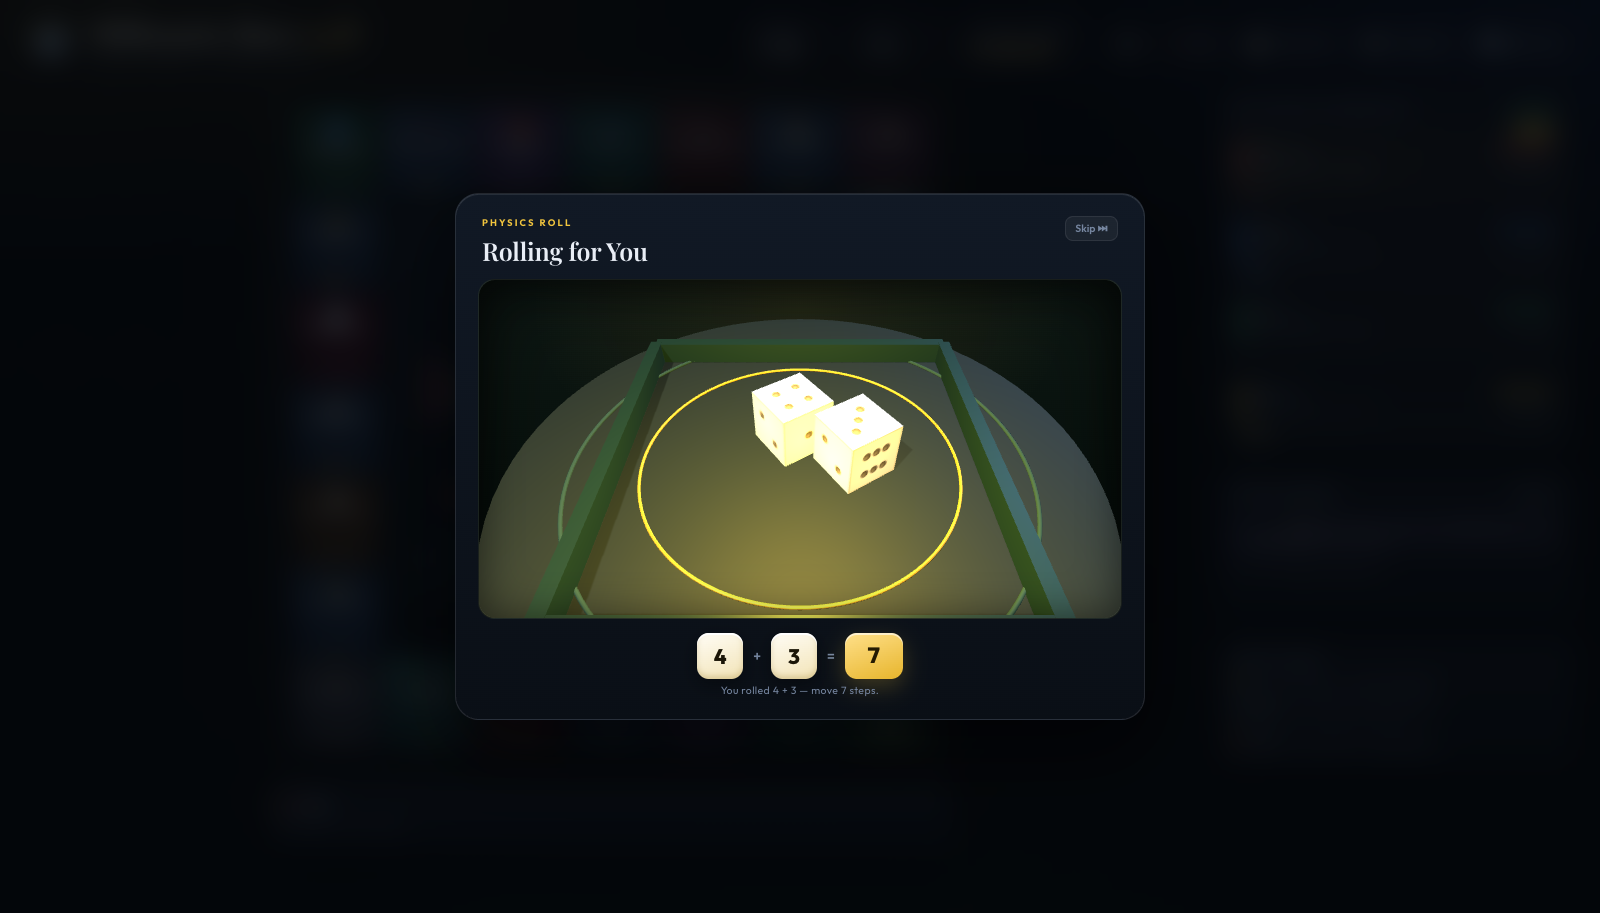
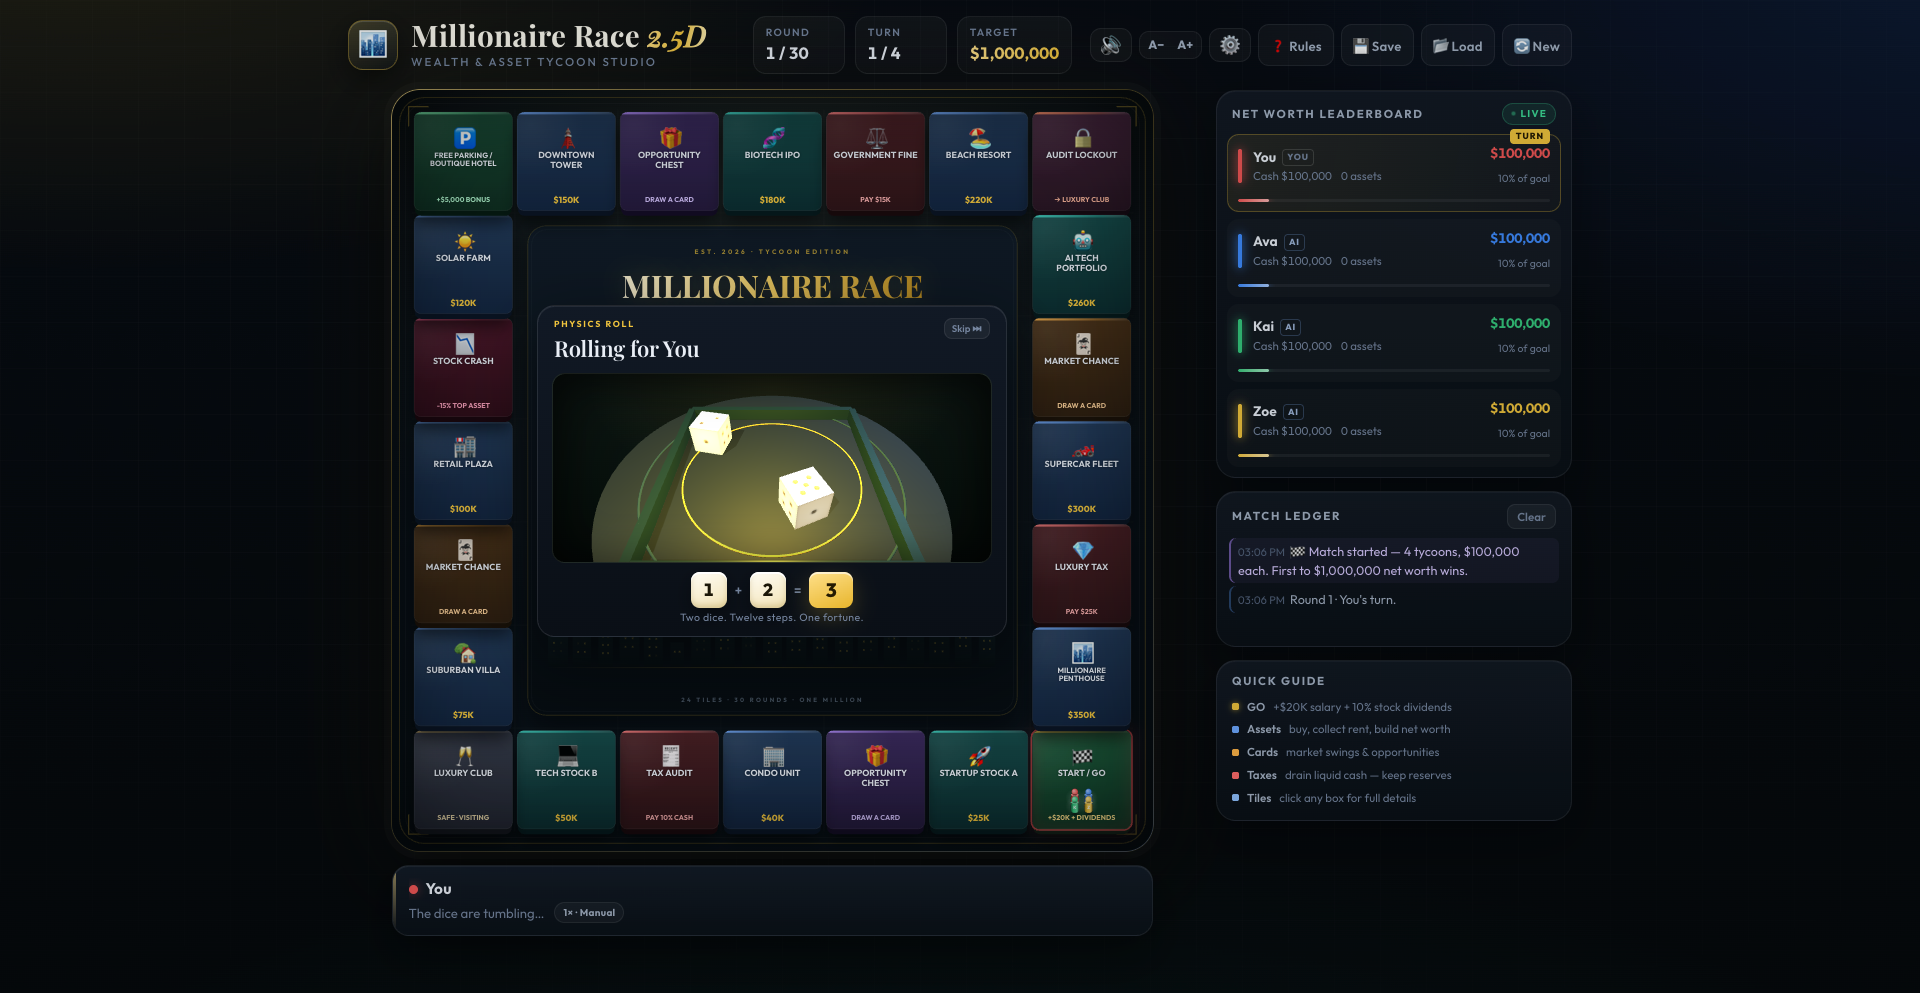
feat: compact floating dice tray keeps the board visible
- Shrink the dice panel from a full screen modal to a 320-470px tray
- Anchor it over the board centre on desktop; below the board on phones
- Replace the heavy blur/dim backdrop with a light 14% wash
- Scale the panel to the board width and resize it responsively
- Scale the 2D fallback dice to the smaller stage
- Update dice screenshot, README and build telemetry

diff --git a/script.js b/script.js
@@ -2754,6 +2754,40 @@ function hasWebGL() {
   return webglSupport;
 }
 
+function positionDiceModal() {
+  const overlay = document.getElementById('diceModal');
+  const modal = document.querySelector('#diceModal .dice-modal');
+  const frame = document.getElementById('boardFrame');
+  if (!overlay || !overlay.classList.contains('show') || !modal || !frame) return;
+  const rect = frame.getBoundingClientRect();
+  if (window.innerWidth <= 720) {
+    modal.style.width = '';
+  } else {
+    const panelWidth = Math.min(470, Math.max(320, rect.width * 0.64));
+    modal.style.width = `${Math.round(panelWidth)}px`;
+  }
+  const width = modal.offsetWidth || 470;
+  const height = modal.offsetHeight || 320;
+  const halfW = width / 2;
+  const halfH = height / 2;
+  const maxLeft = Math.max(halfW + 10, window.innerWidth - halfW - 10);
+  const maxTop = Math.max(halfH + 10, window.innerHeight - halfH - 10);
+  let left;
+  let top;
+  if (window.innerWidth <= 720) {
+    // On phones keep the board fully visible and drop the tray near the bottom.
+    left = window.innerWidth / 2;
+    top = window.innerHeight - halfH - 14;
+  } else {
+    left = rect.left + rect.width / 2;
+    top = rect.top + rect.height / 2;
+  }
+  left = clamp(left, halfW + 10, maxLeft);
+  top = clamp(top, halfH + 10, maxTop);
+  modal.style.setProperty('--dice-left', `${left}px`);
+  modal.style.setProperty('--dice-top', `${top}px`);
+}
+
 function openDiceModal(player) {
   return new Promise((resolve) => {
     ui.diceResolve = resolve;
@@ -2767,6 +2801,9 @@ function openDiceModal(player) {
     if (!stage) { resolve([randDie(), randDie()]); return; }
     stage.innerHTML = '<div class="dice-loading"><span class="spinner"></span><p>Loading 3D physics…</p></div>';
     openModal('diceModal');
+    positionDiceModal();
+    requestAnimationFrame(positionDiceModal);
+    setTimeout(positionDiceModal, 60);
 
     ui.diceTicker = setInterval(() => {
       if (!ui.diceResolve) return;
@@ -3234,11 +3271,12 @@ function runFallbackDice(stage, finish) {
 
     const settle = clamp((t - 1100) / 500, 0, 1);
     const ease = 1 - Math.pow(1 - settle, 3);
-    const spread = 78;
-    const midY = height / 2 + 6;
+    const dieSize = Math.min(92, Math.max(50, Math.round(height * 0.4)));
+    const spread = dieSize * 0.86;
+    const midY = height / 2 + 4;
     const wobble = Math.sin(t / 90) * 0.14 * (1 - ease);
-    drawFace(width / 2 - spread, midY, 92, shown[0], wobble);
-    drawFace(width / 2 + spread, midY, 92, shown[1], -wobble);
+    drawFace(width / 2 - spread, midY, dieSize, shown[0], wobble);
+    drawFace(width / 2 + spread, midY, dieSize, shown[1], -wobble);
 
     if (t < 1850) {
       raf = requestAnimationFrame(frame);
@@ -3562,6 +3600,7 @@ function bindEvents() {
 
   // Responsive canvas
   window.addEventListener('resize', debounce(resizeBoard, 120));
+  window.addEventListener('resize', debounce(positionDiceModal, 100));
   if ('ResizeObserver' in window) {
     try {
       new ResizeObserver(debounce(resizeBoard, 100)).observe($('#boardFrame'));

diff --git a/style.css b/style.css
@@ -954,6 +954,44 @@ button { touch-action: manipulation; }
 }
 .dice-caption { text-align: center; margin: 0 0 2px; font-size: 0.6562rem; color: var(--muted); letter-spacing: 0.4px; }
 
+/* Compact floating dice tray — keeps the board visible during the roll */
+#diceModal {
+  background: rgba(3, 5, 9, 0.14);
+  -webkit-backdrop-filter: none;
+  backdrop-filter: none;
+  padding: 0;
+  align-items: flex-start;
+  justify-content: flex-start;
+}
+#diceModal .dice-modal {
+  position: fixed;
+  left: var(--dice-left, 50vw);
+  top: var(--dice-top, 50vh);
+  width: min(470px, calc(100vw - 24px));
+  max-width: 470px;
+  padding: 12px 14px 10px;
+  border-radius: 18px;
+  opacity: 0;
+  transform: translate(-50%, -50%) scale(0.97);
+  transition: transform 0.24s cubic-bezier(0.2, 0.9, 0.3, 1.2), opacity 0.2s ease;
+  box-shadow: 0 24px 60px rgba(0, 0, 0, 0.55), inset 0 1px 0 rgba(255, 255, 255, 0.08);
+}
+#diceModal.show .dice-modal {
+  opacity: 1;
+  transform: translate(-50%, -50%) scale(1);
+}
+#diceModal .dice-head { padding: 0 2px 8px; }
+#diceModal .dice-head h2 { font-size: 1.25rem; }
+#diceModal .dice-head .eyebrow { font-size: 0.5rem; letter-spacing: 1.7px; }
+#diceModal .dice-head .mini-btn { font-size: 0.55rem; padding: 3px 7px; }
+#diceModal .dice-stage { height: 190px; border-radius: 13px; }
+#diceModal .dice-readout { padding: 9px 0 2px; gap: 8px; }
+#diceModal .die-chip { min-width: 36px; height: 36px; font-size: 1rem; border-radius: 9px; }
+#diceModal .die-total { min-width: 44px; height: 36px; font-size: 1.1rem; border-radius: 9px; }
+#diceModal .dice-readout .plus,
+#diceModal .dice-readout .equals { font-size: 0.75rem; }
+#diceModal .dice-caption { font-size: 0.6rem; margin-bottom: 0; }
+
 /* Card modal */
 .card-modal { max-width: 465px; text-align: center; padding: 30px 30px 26px; overflow: hidden; border-color: rgba(176, 136, 255, 0.24); }
 .card-glow {
@@ -1443,6 +1481,9 @@ html[data-font="140"] .ghost-btn::first-letter {
   .lobby-footer-actions { margin-left: 0; width: 100%; justify-content: space-between; }
   .lobby-note { display: none; }
   .dice-modal, .rules-modal { padding: 16px; }
+  #diceModal .dice-modal { width: min(360px, calc(100vw - 20px)); padding: 10px 11px 8px; }
+  #diceModal .dice-stage { height: 150px; }
+  #diceModal .dice-head h2 { font-size: 1.1rem; }
   .card-modal { padding: 24px 20px 20px; }
   .win-modal { padding: 26px 20px 22px; }
   .toast-stack { right: 12px; bottom: 12px; }

diff --git a/BUILD_STATE.md b/BUILD_STATE.md
@@ -27,6 +27,7 @@ This file records the build telemetry for the project: wall-clock time, token co
 | Started | **2026-11-01 10:22:40 PST** (`2026-11-01T10:22:40-08:00`) |
 | First delivery | **2026-11-01 11:11:06 PST** — 48 min 25 sec |
 | Feature-update snapshot | **2026-11-01 12:00:59 PST** — **98 min 18 sec cumulative** |
+| Latest dice-tray tweak | **2026-11-01 15:04 PST** — compact floating tray (session resumed after a break) |
 | Delivered | Complete playable game, three core source files, six screenshots, docs, license and build telemetry |
 
 ### Approximate build log
@@ -43,6 +44,7 @@ This file records the build telemetry for the project: wall-clock time, token co
 | 11:06 | Final screenshots, README, license, build telemetry |
 | 11:11 | GitHub publication and Pages deployment |
 | 11:13–12:00 | v1.1: speed control, manual review/Continue, clickable tile inspector, text-size scaling, new settings modal, screenshots and re-publication |
+| 14:57–15:04 | Compact floating dice tray: 470 px panel over the board centre, 14% backdrop, mobile below-board placement and smaller 2D fallback dice |
 
 > Times are derived from the session record, screenshots and the telemetry capture point. The final documentation commit and final assistant message occur slightly after the capture.
 
@@ -50,29 +52,30 @@ This file records the build telemetry for the project: wall-clock time, token co
 
 ## Token consumption
 
-Session totals reported by OpenCode. Two snapshots are shown so the original build and the follow-up update can be compared.
+Session totals reported by OpenCode. Three snapshots are shown so the original build, the v1.1 update and the compact-dice-tray tweak can be compared.
 
-| Token class | At first delivery (11:11:06) | At feature snapshot (12:00:59) |
+| Token class | At first delivery (11:11:06) | At feature snapshot (12:00:59) | At latest snapshot (15:04) |
+| --- | ---: | ---: | ---: |
+| Input (uncached) | 407,174 | **568,437** | **1,506,897** |
+| Output | 89,097 | **132,455** | **142,708** |
+| Reasoning | 138,514 | **223,128** | **249,664** |
+| Cache read | 30,218,112 | **73,790,976** | **87,262,080** |
+| Cache write | 1,842 | **1,842** | **1,842** |
+| **Grand total (all classes)** | **30,854,739** | **74,716,838** | **89,163,191** |
+
+Derived views at the feature snapshots:
+
+| View | At feature snapshot | At latest snapshot |
 | --- | ---: | ---: |
-| Input (uncached) | 407,174 | **568,437** |
-| Output | 89,097 | **132,455** |
-| Reasoning | 138,514 | **223,128** |
-| Cache read | 30,218,112 | **73,790,976** |
-| Cache write | 1,842 | **1,842** |
-| **Grand total (all classes)** | **30,854,739** | **74,716,838** |
-
-Derived views at the feature snapshot:
-
-| View | Count |
-| --- | ---: |
-| Input + output | 700,892 |
-| Input + output + reasoning | 924,020 |
-| Cache traffic (read + write) | 73,792,818 |
-| Provider-reported session cost at capture | **$0.00** |
+| Input + output | 700,892 | 1,649,605 |
+| Input + output + reasoning | 924,020 | 1,899,269 |
+| Cache traffic (read + write) | 73,792,818 | 87,263,922 |
+| Provider-reported session cost | **$0.00** | **$0.00** |
 
 ### Reading these numbers
 
 - **Cache read** dominates because the agent re-reads the growing conversation context on every turn; it is shown separately rather than hidden.
+- The session spans **multiple sittings**. Wall-clock time from 10:22 to 15:04 includes an idle break; the active build time through v1.1 is 98m 18s and the dice-tray tweak is a short follow-up. Token counts are cumulative and therefore include the resumed conversation.
 - **Reasoning** tokens are the model's internal reasoning budget, reported by the provider.
 - The **grand total** is input + output + reasoning + cache read + cache write.
 - Counts were captured **before** this file's final write, the README edit, the commit, the push and the final reply. The live session total will be marginally higher.
@@ -84,10 +87,10 @@ Derived views at the feature snapshot:
 
 | Item | Value |
 | --- | --- |
-| Core source lines | **5,500** across `index.html`, `style.css`, `script.js` |
+| Core source lines | **5,580** across `index.html`, `style.css`, `script.js` |
 | HTML | 359 lines |
-| CSS | 1,480 lines |
-| JavaScript | 3,661 lines |
+| CSS | 1,521 lines |
+| JavaScript | 3,700 lines |
 | Screenshots | 6 (board, review, tile card, settings, dice, lobby) |
 | Dependencies | None to install; Three.js + Cannon.js + Google Fonts via CDN |
 | Build step | None |
@@ -100,6 +103,7 @@ Derived views at the feature snapshot:
 - **Clickable tile inspector** — canvas hit-testing with hover outline, pointer cursor and a large detail card (price, rent/yield, owner, tier, status, dynamic exposure and position notes).
 - **Text-size scaling** — A−/A+ and Table Settings, 100% / 110% / 125% / 140%; rem-based UI scale plus a proportional Canvas label boost. Header labels collapse to icons at 125%+ so the top bar stays on one row.
 - **Settings modal** — speed, turn flow, text size, rules link and tile-inspector hint; all preferences persist in `localStorage`.
+- **Compact floating dice tray** — the dice panel is 470 px wide, sits over the board centre with a 14% backdrop (no blur), keeps the perimeter tiles visible, and drops below the board on phones. The Canvas 2D fallback dice scale to the smaller stage.
 - **Keyboard** — `Space` / `Enter` continues a manual review; `R` rolls; `Esc` closes the new dialogs.
 
 ### Validation performed
@@ -114,6 +118,7 @@ Derived views at the feature snapshot:
 - ✅ **Manual review:** review phase, Continue button, REVIEW badge, Continue advances to the AI seat; Auto mode advances automatically.
 - ✅ **Inspector:** a real canvas click opens the correct tile card; inspector is blocked while dice/pawns are moving and during AI turns.
 - ✅ **Text scaling:** 110% keeps one header row; 125%/140% icon-collapse keeps one row; log text grew from 11.5 px to 16.1 px at 140%.
+- ✅ **Compact dice tray:** verified at 1920×1080 and 390×844; desktop tray is 456×322 over a 761 px board, mobile tray sits below the board and leaves it fully visible; the light backdrop does not blur the board.
 - ✅ **Persistence:** review state survives save/load; settings (speed, turn flow, text size) survive reloads.
 - ✅ Responsive lobby, settings, tile, rules, win and card modals; keyboard `R` / `Space` / `Esc`.
 
@@ -129,4 +134,4 @@ Derived views at the feature snapshot:
 
 ---
 
-*Snapshot captured 2026-11-01 12:00:59 PST. Machine-readable mirror: [build-state.json](build-state.json).*
+*Snapshot captured 2026-11-01 15:04 PST. Machine-readable mirror: [build-state.json](build-state.json).*

diff --git a/README.md b/README.md
@@ -9,7 +9,7 @@ A complete, production-ready 2.5D wealth-building board game for the browser. Bu
 <p align="center">
   <img src="screenshot-tile.png" width="32%" alt="Clickable tile detail card" />
   <img src="screenshot-settings.png" width="32%" alt="Table settings for speed, turn flow and text size" />
-  <img src="screenshot-dice.png" width="32%" alt="3D physics dice modal" />
+  <img src="screenshot-dice.png" width="32%" alt="Compact 3D physics dice tray over the board" />
 </p>
 
 <p align="center">
@@ -42,7 +42,7 @@ The board, economy, AI and persistence are fully offline-capable. The 3D dice us
 - **Review-friendly pacing** — movement speed from **0.5× to 3×**, plus **Manual / Auto turn flow**. Manual pauses after your turn with a **Continue** button so you can study the tile, rent and balance before advancing.
 - **Tile inspector** — click or tap **any board box** for a large detail card with price, rent/yield, owner, tier, mortgage status, live position info and dynamic effect notes.
 - **Readable interface** — **A− / A+ text scaling** (100%, 110%, 125%, 140%) for the lobby, sidebar, dialogs, logs and board labels, persisted between sessions.
-- **Real 3D physics dice** — two tumbling Cannon.js cubes inside a Three.js table, random forces and torque, pip textures, shadows, rail collisions, automatic rest detection and result reading from the upward face.
+- **Real 3D physics dice** — two tumbling Cannon.js cubes inside a Three.js table, random forces and torque, pip textures, shadows, rail collisions, automatic rest detection and result reading from the upward face. The roll shows in a **compact floating tray over the board centre**, with a light backdrop so the tiles stay visible; on phones the tray drops below the board.
 - **Complete economy** — salaries, stock dividends, rent, taxes, auto-mortgages, bankruptcy, eliminations and a live net-worth leaderboard.
 - **Shuffled card deck** — bull runs, crypto crashes, real-estate booms and tax loopholes.
 - **AI decision tree** — bots buy when reserves stay above $20,000 and pay the $10,000 audit-lockout exit fee when cash is above $30,000.
@@ -206,6 +206,7 @@ Append `?demo=1` to the URL to auto-start a four-player AI match. Add `&fast=1` 
 - Canvas 2D dice fallback verified with WebGL disabled.
 - Full **120-turn / 30-round** simulated match with random dice, cards, lockouts, purchases and rent — ended correctly on the 30-round net-worth tiebreak with no console errors.
 - Targeted assertions for auto-mortgage, bankruptcy asset release, GO dividends, tax loophole, $1M victory, AI buy threshold and save/load round-trip.
+- **Compact dice tray:** the board remains visible around the tray; on desktop the tray is centred over the board centre and on mobile it is anchored below the board.
 - **Pacing & inspection checks:** 0.5× step measured at ~421 ms vs ~124 ms at 2×; Manual mode enters review with the Continue button and REVIEW badge; Auto mode advances to the AI seat; a real canvas click opens the correct tile card; review state survives save/load.
 - **Text scaling checks:** 110% keeps the header on one row; 125% and 140% collapse header action labels to icons while keeping one row; log text scales from 11.5 px to 16.1 px at 140%.
 
@@ -215,8 +216,8 @@ Append `?demo=1` to the URL to auto-start a four-player AI match. Add `&fast=1` 
 
 This entire project — design, code, copy, tests and screenshots — was created end-to-end by **[OpenCode](https://opencode.ai)** using **DeepSeek V4.1 Flash** (`opencode-go/deepseek-v4.1-flash`).
 
-- **Wall-clock build time:** **98 min 18 sec** cumulative through the v1.1 review/readability update (first playable delivery at 48 min 25 sec). See [BUILD_STATE.md](BUILD_STATE.md).
-- **Token accounting:** **74,716,838** total at the feature snapshot — 568,437 input, 132,455 output, 223,128 reasoning, 73,790,976 cache read, 1,842 cache write. Cache reads dominate because the full context is re-read each turn. See [build-state.json](build-state.json).
+- **Wall-clock build time:** **98 min 18 sec** through the v1.1 review/readability update (first playable delivery at 48 min 25 sec), plus a compact-dice-tray tweak in a later sitting. See [BUILD_STATE.md](BUILD_STATE.md).
+- **Token accounting:** **89,163,191** total at the latest snapshot — 1,506,897 input, 142,708 output, 249,664 reasoning, 87,262,080 cache read, 1,842 cache write. Cache reads dominate because the full context is re-read each turn. See [build-state.json](build-state.json).
 - **Model / provider:** `opencode-go` · `deepseek-v4.1-flash`
 - **Session:** `ses_e67a68f85ffe5oCsIETmyBfVZY`
 
